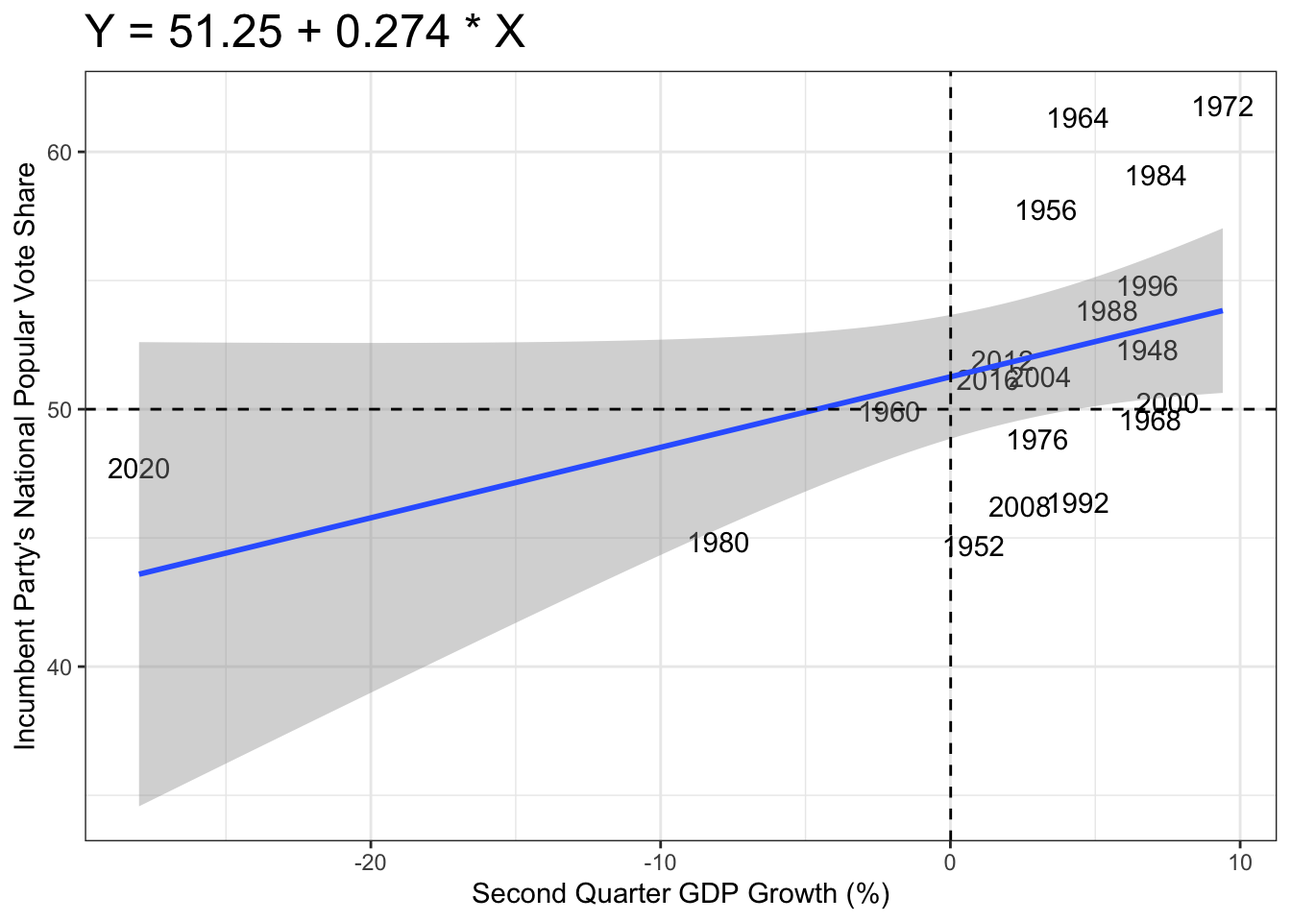
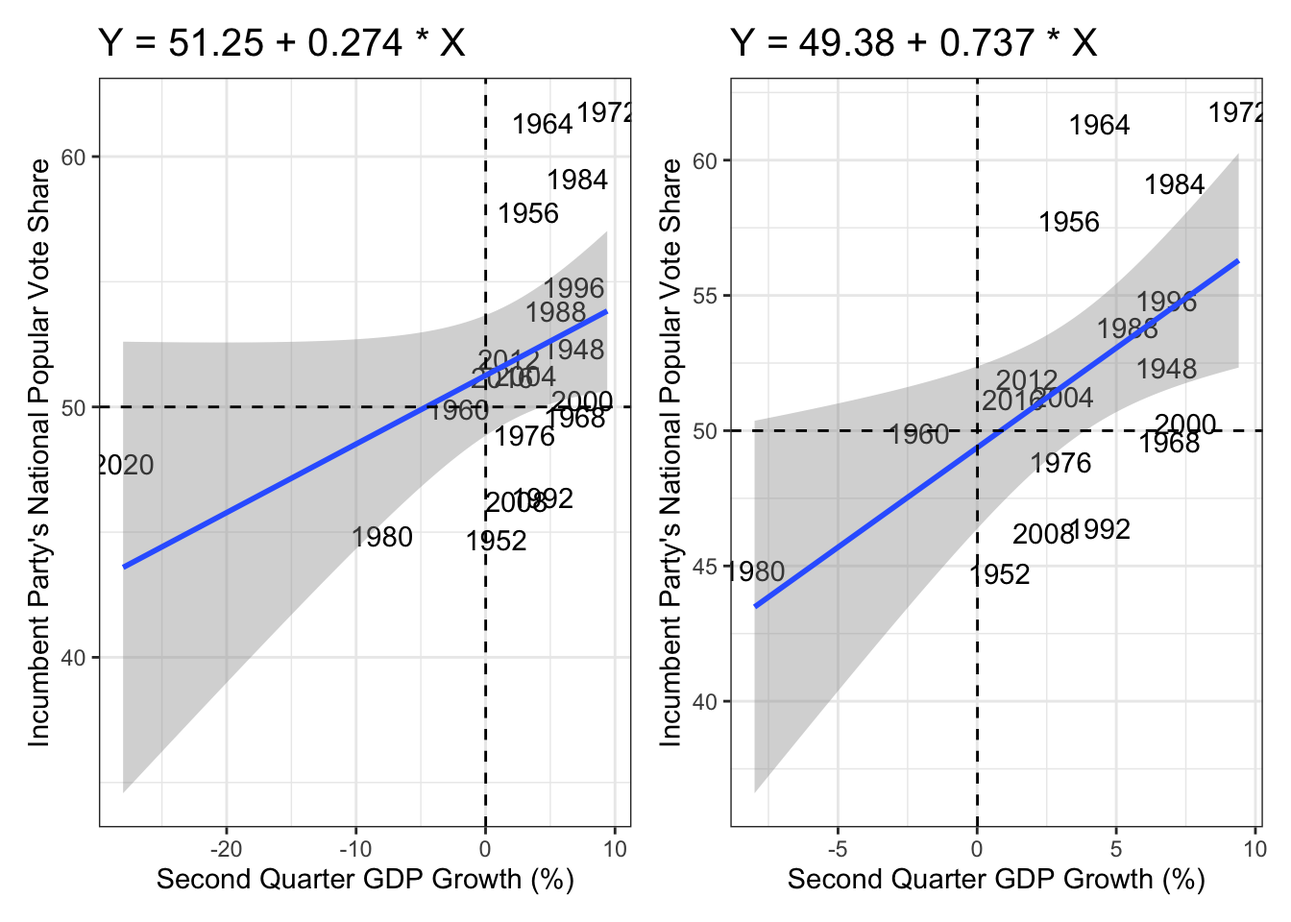
try 2?

diff --git a/public/post/2024/09/15/blog-post-2-factoring-in-economic-forces/index.html b/public/post/2024/09/15/blog-post-2-factoring-in-economic-forces/index.html
@@ -28,10 +28,299 @@
 </div>
 
 <main>
+<h2 id="introduction">Introduction</h2>
+<p>During election season, while the media focuses heavy attention on political rallies, fundraising numbers, and the chaotic political headlines that pass with each news cycle, many political scholars and strategists believe that certain &ldquo;fundamental&rdquo; factors, such as the strength or weakness of the economy, drive political trends much more than the billions of dollars presidential campaigns spend or the relative strengths and weaknesses of the candidates themselves. In this second blog post, I will seek to understand how predictive various economic measures, namely GDP growth and RDI growth, are of presidential election results, specifically the national popular vote share for the incumbent party.</p>
+<h2 id="historical-trends">Historical Trends</h2>
+<p>###Gross Domestic Product (GDP)</p>
+<p>I will begin by looking at GDP growth data in relation to incumbent party vote share. Specifically, I will look at GDP growth in Quarter 2 (between April and June) of each election year, since this period is a fairly good representation of the short term economic outlook leading up to the election. The graphs below show the relationship between Q2 GDP growth and incumbent party vote share. The difference between the two below graphs is that the first includes the 2020 data point while the second graph does not. This difference is important given how much of an outlier 2020 was. Q2 in 2020 was at the height of the Covid-19 lockdown, and the country&rsquo;s economy was in a state of utter chaos. Thus, testing this relationship both with and without 2020 is important.</p>
 <pre><code>## Joining with `by = join_by(year)`
 ## Joining with `by = join_by(year)`
 </code></pre>
-<p><img src="https://johnkulow.github.io/elections-blog/post/2024/09/15/blog-post-2-factoring-in-economic-forces/index_files/figure-html/unnamed-chunk-4-1.png" width="672" /><img src="https://johnkulow.github.io/elections-blog/post/2024/09/15/blog-post-2-factoring-in-economic-forces/index_files/figure-html/unnamed-chunk-4-2.png" width="672" /></p>
+<img src="https://johnkulow.github.io/elections-blog/post/2024/09/15/blog-post-2-factoring-in-economic-forces/index_files/figure-html/unnamed-chunk-4-1.png" width="672" />
+<table style="border-collapse:collapse; border:none;">
+<caption style="font-weight: bold; text-align:left;">Q2 GDP Growth Regression Table (1948-2020)</caption>
+<tr>
+<th style="border-top: double; text-align:center; font-style:normal; font-weight:bold; padding:0.2cm;  text-align:left; ">&nbsp;</th>
+<th colspan="4" style="border-top: double; text-align:center; font-style:normal; font-weight:bold; padding:0.2cm; ">Incumbent Party Vote Share</th>
+</tr>
+<tr>
+<td style=" text-align:center; border-bottom:1px solid; font-style:italic; font-weight:normal;  text-align:left; ">Predictors</td>
+<td style=" text-align:center; border-bottom:1px solid; font-style:italic; font-weight:normal;  ">Estimates</td>
+<td style=" text-align:center; border-bottom:1px solid; font-style:italic; font-weight:normal;  ">std. Error</td>
+<td style=" text-align:center; border-bottom:1px solid; font-style:italic; font-weight:normal;  ">CI</td>
+<td style=" text-align:center; border-bottom:1px solid; font-style:italic; font-weight:normal;  ">p</td>
+</tr>
+<tr>
+<td style=" padding:0.2cm; text-align:left; vertical-align:top; text-align:left; ">(Intercept)</td>
+<td style=" padding:0.2cm; text-align:left; vertical-align:top; text-align:center;  ">51.26</td>
+<td style=" padding:0.2cm; text-align:left; vertical-align:top; text-align:center;  ">1.14</td>
+<td style=" padding:0.2cm; text-align:left; vertical-align:top; text-align:center;  ">48.85&nbsp;&ndash;&nbsp;53.66</td>
+<td style=" padding:0.2cm; text-align:left; vertical-align:top; text-align:center;  "><strong>&lt;0.001</strong></td>
+</tr>
+<tr>
+<td style=" padding:0.2cm; text-align:left; vertical-align:top; text-align:left; ">GDP growth quarterly</td>
+<td style=" padding:0.2cm; text-align:left; vertical-align:top; text-align:center;  ">0.27</td>
+<td style=" padding:0.2cm; text-align:left; vertical-align:top; text-align:center;  ">0.14</td>
+<td style=" padding:0.2cm; text-align:left; vertical-align:top; text-align:center;  ">&#45;0.02&nbsp;&ndash;&nbsp;0.57</td>
+<td style=" padding:0.2cm; text-align:left; vertical-align:top; text-align:center;  ">0.064</td>
+</tr>
+<tr>
+<td style=" padding:0.2cm; text-align:left; vertical-align:top; text-align:left; padding-top:0.1cm; padding-bottom:0.1cm; border-top:1px solid;">Observations</td>
+<td style=" padding:0.2cm; text-align:left; vertical-align:top; padding-top:0.1cm; padding-bottom:0.1cm; text-align:left; border-top:1px solid;" colspan="4">19</td>
+</tr>
+<tr>
+<td style=" padding:0.2cm; text-align:left; vertical-align:top; text-align:left; padding-top:0.1cm; padding-bottom:0.1cm;">R<sup>2</sup> / R<sup>2</sup> adjusted</td>
+<td style=" padding:0.2cm; text-align:left; vertical-align:top; padding-top:0.1cm; padding-bottom:0.1cm; text-align:left;" colspan="4">0.188 / 0.140</td>
+</tr>
+</table>
+<table style="border-collapse:collapse; border:none;">
+<caption style="font-weight: bold; text-align:left;">Q2 GDP Growth Regression Table (1948-2016)</caption>
+<tr>
+<th style="border-top: double; text-align:center; font-style:normal; font-weight:bold; padding:0.2cm;  text-align:left; ">&nbsp;</th>
+<th colspan="4" style="border-top: double; text-align:center; font-style:normal; font-weight:bold; padding:0.2cm; ">Incumbent Party Vote Share</th>
+</tr>
+<tr>
+<td style=" text-align:center; border-bottom:1px solid; font-style:italic; font-weight:normal;  text-align:left; ">Predictors</td>
+<td style=" text-align:center; border-bottom:1px solid; font-style:italic; font-weight:normal;  ">Estimates</td>
+<td style=" text-align:center; border-bottom:1px solid; font-style:italic; font-weight:normal;  ">std. Error</td>
+<td style=" text-align:center; border-bottom:1px solid; font-style:italic; font-weight:normal;  ">CI</td>
+<td style=" text-align:center; border-bottom:1px solid; font-style:italic; font-weight:normal;  ">p</td>
+</tr>
+<tr>
+<td style=" padding:0.2cm; text-align:left; vertical-align:top; text-align:left; ">(Intercept)</td>
+<td style=" padding:0.2cm; text-align:left; vertical-align:top; text-align:center;  ">49.38</td>
+<td style=" padding:0.2cm; text-align:left; vertical-align:top; text-align:center;  ">1.42</td>
+<td style=" padding:0.2cm; text-align:left; vertical-align:top; text-align:center;  ">46.37&nbsp;&ndash;&nbsp;52.38</td>
+<td style=" padding:0.2cm; text-align:left; vertical-align:top; text-align:center;  "><strong>&lt;0.001</strong></td>
+</tr>
+<tr>
+<td style=" padding:0.2cm; text-align:left; vertical-align:top; text-align:left; ">GDP growth quarterly</td>
+<td style=" padding:0.2cm; text-align:left; vertical-align:top; text-align:center;  ">0.74</td>
+<td style=" padding:0.2cm; text-align:left; vertical-align:top; text-align:center;  ">0.27</td>
+<td style=" padding:0.2cm; text-align:left; vertical-align:top; text-align:center;  ">0.17&nbsp;&ndash;&nbsp;1.30</td>
+<td style=" padding:0.2cm; text-align:left; vertical-align:top; text-align:center;  "><strong>0.014</strong></td>
+</tr>
+<tr>
+<td style=" padding:0.2cm; text-align:left; vertical-align:top; text-align:left; padding-top:0.1cm; padding-bottom:0.1cm; border-top:1px solid;">Observations</td>
+<td style=" padding:0.2cm; text-align:left; vertical-align:top; padding-top:0.1cm; padding-bottom:0.1cm; text-align:left; border-top:1px solid;" colspan="4">18</td>
+</tr>
+<tr>
+<td style=" padding:0.2cm; text-align:left; vertical-align:top; text-align:left; padding-top:0.1cm; padding-bottom:0.1cm;">R<sup>2</sup> / R<sup>2</sup> adjusted</td>
+<td style=" padding:0.2cm; text-align:left; vertical-align:top; padding-top:0.1cm; padding-bottom:0.1cm; text-align:left;" colspan="4">0.325 / 0.283</td>
+</tr>
+</table>
+<p>These graphs and their accompanying regression tables show that there is a positive correlation between Q2 election year GDP growth ad incumbent party vote share in the corresponding November election. This relationship is much stronger when we exclude the 2020 outlier case, resulting in the slope of the line of best fit increasing from 0.27 to 0.74. This said, the R squared value of 0.28 for the 1948-2016 model remains fairly low, meaning that now much of the variation from the trendline can be explained by the model.</p>
+<h3 id="real-disposable-income-rdi">Real Disposable Income (RDI)</h3>
+<p>Given that Q2 GDP growth clearly has a correlation, but, predictably, does not fully explain election results, it is useful to see how a different measure of the strength of the economy, changes in Real Disposable Income (RDI), relates to the election results. Some argue that RDI, at least in theory, is a better predictor of electoral trends because it is a measure of how much money voters actually have in their pockets, compared to GDP which is a measure of the collective strength of the economy, regardless of how individuals within the economy are fairing. Like the graphs for GDP growth, the two graphs below first include and then exclude the 2020 outlier case, and I look at changes in RDI in Q2 of each election year.</p>
+<img src="https://johnkulow.github.io/elections-blog/post/2024/09/15/blog-post-2-factoring-in-economic-forces/index_files/figure-html/unnamed-chunk-7-1.png" width="672" />
+<table style="border-collapse:collapse; border:none;">
+<caption style="font-weight: bold; text-align:left;">Q2 RDI Growth Regression Table (1948-2020)</caption>
+<tr>
+<th style="border-top: double; text-align:center; font-style:normal; font-weight:bold; padding:0.2cm;  text-align:left; ">&nbsp;</th>
+<th colspan="4" style="border-top: double; text-align:center; font-style:normal; font-weight:bold; padding:0.2cm; ">Incumbent Party Vote Share</th>
+</tr>
+<tr>
+<td style=" text-align:center; border-bottom:1px solid; font-style:italic; font-weight:normal;  text-align:left; ">Predictors</td>
+<td style=" text-align:center; border-bottom:1px solid; font-style:italic; font-weight:normal;  ">Estimates</td>
+<td style=" text-align:center; border-bottom:1px solid; font-style:italic; font-weight:normal;  ">std. Error</td>
+<td style=" text-align:center; border-bottom:1px solid; font-style:italic; font-weight:normal;  ">CI</td>
+<td style=" text-align:center; border-bottom:1px solid; font-style:italic; font-weight:normal;  ">p</td>
+</tr>
+<tr>
+<td style=" padding:0.2cm; text-align:left; vertical-align:top; text-align:left; ">(Intercept)</td>
+<td style=" padding:0.2cm; text-align:left; vertical-align:top; text-align:center;  ">51.97</td>
+<td style=" padding:0.2cm; text-align:left; vertical-align:top; text-align:center;  ">1.49</td>
+<td style=" padding:0.2cm; text-align:left; vertical-align:top; text-align:center;  ">48.82&nbsp;&ndash;&nbsp;55.12</td>
+<td style=" padding:0.2cm; text-align:left; vertical-align:top; text-align:center;  "><strong>&lt;0.001</strong></td>
+</tr>
+<tr>
+<td style=" padding:0.2cm; text-align:left; vertical-align:top; text-align:left; ">RDPI growth quarterly</td>
+<td style=" padding:0.2cm; text-align:left; vertical-align:top; text-align:center;  ">&#45;0.03</td>
+<td style=" padding:0.2cm; text-align:left; vertical-align:top; text-align:center;  ">0.12</td>
+<td style=" padding:0.2cm; text-align:left; vertical-align:top; text-align:center;  ">&#45;0.29&nbsp;&ndash;&nbsp;0.23</td>
+<td style=" padding:0.2cm; text-align:left; vertical-align:top; text-align:center;  ">0.823</td>
+</tr>
+<tr>
+<td style=" padding:0.2cm; text-align:left; vertical-align:top; text-align:left; padding-top:0.1cm; padding-bottom:0.1cm; border-top:1px solid;">Observations</td>
+<td style=" padding:0.2cm; text-align:left; vertical-align:top; padding-top:0.1cm; padding-bottom:0.1cm; text-align:left; border-top:1px solid;" colspan="4">19</td>
+</tr>
+<tr>
+<td style=" padding:0.2cm; text-align:left; vertical-align:top; text-align:left; padding-top:0.1cm; padding-bottom:0.1cm;">R<sup>2</sup> / R<sup>2</sup> adjusted</td>
+<td style=" padding:0.2cm; text-align:left; vertical-align:top; padding-top:0.1cm; padding-bottom:0.1cm; text-align:left;" colspan="4">0.003 / -0.056</td>
+</tr>
+</table>
+<table style="border-collapse:collapse; border:none;">
+<caption style="font-weight: bold; text-align:left;">Q2 RDI Growth Regression Table (1948-2016)</caption>
+<tr>
+<th style="border-top: double; text-align:center; font-style:normal; font-weight:bold; padding:0.2cm;  text-align:left; ">&nbsp;</th>
+<th colspan="4" style="border-top: double; text-align:center; font-style:normal; font-weight:bold; padding:0.2cm; ">Incumbent Party Vote Share</th>
+</tr>
+<tr>
+<td style=" text-align:center; border-bottom:1px solid; font-style:italic; font-weight:normal;  text-align:left; ">Predictors</td>
+<td style=" text-align:center; border-bottom:1px solid; font-style:italic; font-weight:normal;  ">Estimates</td>
+<td style=" text-align:center; border-bottom:1px solid; font-style:italic; font-weight:normal;  ">std. Error</td>
+<td style=" text-align:center; border-bottom:1px solid; font-style:italic; font-weight:normal;  ">CI</td>
+<td style=" text-align:center; border-bottom:1px solid; font-style:italic; font-weight:normal;  ">p</td>
+</tr>
+<tr>
+<td style=" padding:0.2cm; text-align:left; vertical-align:top; text-align:left; ">(Intercept)</td>
+<td style=" padding:0.2cm; text-align:left; vertical-align:top; text-align:center;  ">49.87</td>
+<td style=" padding:0.2cm; text-align:left; vertical-align:top; text-align:center;  ">1.93</td>
+<td style=" padding:0.2cm; text-align:left; vertical-align:top; text-align:center;  ">45.77&nbsp;&ndash;&nbsp;53.96</td>
+<td style=" padding:0.2cm; text-align:left; vertical-align:top; text-align:center;  "><strong>&lt;0.001</strong></td>
+</tr>
+<tr>
+<td style=" padding:0.2cm; text-align:left; vertical-align:top; text-align:left; ">RDPI growth quarterly</td>
+<td style=" padding:0.2cm; text-align:left; vertical-align:top; text-align:center;  ">0.46</td>
+<td style=" padding:0.2cm; text-align:left; vertical-align:top; text-align:center;  ">0.32</td>
+<td style=" padding:0.2cm; text-align:left; vertical-align:top; text-align:center;  ">&#45;0.23&nbsp;&ndash;&nbsp;1.15</td>
+<td style=" padding:0.2cm; text-align:left; vertical-align:top; text-align:center;  ">0.176</td>
+</tr>
+<tr>
+<td style=" padding:0.2cm; text-align:left; vertical-align:top; text-align:left; padding-top:0.1cm; padding-bottom:0.1cm; border-top:1px solid;">Observations</td>
+<td style=" padding:0.2cm; text-align:left; vertical-align:top; padding-top:0.1cm; padding-bottom:0.1cm; text-align:left; border-top:1px solid;" colspan="4">18</td>
+</tr>
+<tr>
+<td style=" padding:0.2cm; text-align:left; vertical-align:top; text-align:left; padding-top:0.1cm; padding-bottom:0.1cm;">R<sup>2</sup> / R<sup>2</sup> adjusted</td>
+<td style=" padding:0.2cm; text-align:left; vertical-align:top; padding-top:0.1cm; padding-bottom:0.1cm; text-align:left;" colspan="4">0.111 / 0.056</td>
+</tr>
+</table>
+<p>As can be seen in both the graphs and the coressponding regression tables, the 2020 outlier significantly changes how predictive changes in RDI are, with the slope of the line of best fit jumping from -0.03 to +0.46. This said, this second, better fitting positive correlation is a notably worse relationship than Q2 GDP growth, both in terms of the slope of the trendline being less steep and in terms of the R squared value, which in this case is a very small 0.056. Thus, Q2 GDP growth is a better predictor of electoral results than Q2 RDI growth.</p>
+<h2 id="incumbents-vs-incumbents-heirs">Incumbents vs Incumbents&rsquo; Heirs</h2>
+<h3 id="gdp-growth">GDP growth</h3>
+<p>I will now look at whether these relationships hold up when the incumbent party&rsquo;s nominee is not the incumbent themselves. This distinction potentially matters because if the economy is doing particularly well or particularly poorly, voters may not respectively give credit or blame the incumbent party&rsquo;s candidate given that they were not in power to cause these changes. This distinction is of particular importance when looking at the 2024 election given that President Biden has stepped aside to allow his heir, Vice President Harris, to run instead.</p>
+<pre><code>## Joining with `by = join_by(year)`
+## Joining with `by = join_by(year)`
+## Joining with `by = join_by(year)`
+## Joining with `by = join_by(year)`
+</code></pre>
+<img src="https://johnkulow.github.io/elections-blog/post/2024/09/15/blog-post-2-factoring-in-economic-forces/index_files/figure-html/unnamed-chunk-11-1.png" width="672" />
+<table style="border-collapse:collapse; border:none;">
+<caption style="font-weight: bold; text-align:left;">Comparison Regression Table for Q2 GDP Growth (1948-2020)</caption>
+<tr>
+<th style="border-top: double; text-align:center; font-style:normal; font-weight:bold; padding:0.2cm;  text-align:left; ">&nbsp;</th>
+<th colspan="4" style="border-top: double; text-align:center; font-style:normal; font-weight:bold; padding:0.2cm; ">Sitting Presidents</th>
+<th colspan="4" style="border-top: double; text-align:center; font-style:normal; font-weight:bold; padding:0.2cm; ">Same-Party Heirs</th>
+</tr>
+<tr>
+<td style=" text-align:center; border-bottom:1px solid; font-style:italic; font-weight:normal;  text-align:left; ">Predictors</td>
+<td style=" text-align:center; border-bottom:1px solid; font-style:italic; font-weight:normal;  ">Estimates</td>
+<td style=" text-align:center; border-bottom:1px solid; font-style:italic; font-weight:normal;  ">std. Error</td>
+<td style=" text-align:center; border-bottom:1px solid; font-style:italic; font-weight:normal;  ">CI</td>
+<td style=" text-align:center; border-bottom:1px solid; font-style:italic; font-weight:normal;  ">p</td>
+<td style=" text-align:center; border-bottom:1px solid; font-style:italic; font-weight:normal;  ">Estimates</td>
+<td style=" text-align:center; border-bottom:1px solid; font-style:italic; font-weight:normal;  col7">std. Error</td>
+<td style=" text-align:center; border-bottom:1px solid; font-style:italic; font-weight:normal;  col8">CI</td>
+<td style=" text-align:center; border-bottom:1px solid; font-style:italic; font-weight:normal;  col9">p</td>
+</tr>
+<tr>
+<td style=" padding:0.2cm; text-align:left; vertical-align:top; text-align:left; ">(Intercept)</td>
+<td style=" padding:0.2cm; text-align:left; vertical-align:top; text-align:center;  ">50.43</td>
+<td style=" padding:0.2cm; text-align:left; vertical-align:top; text-align:center;  ">1.85</td>
+<td style=" padding:0.2cm; text-align:left; vertical-align:top; text-align:center;  ">46.25&nbsp;&ndash;&nbsp;54.61</td>
+<td style=" padding:0.2cm; text-align:left; vertical-align:top; text-align:center;  "><strong>&lt;0.001</strong></td>
+<td style=" padding:0.2cm; text-align:left; vertical-align:top; text-align:center;  ">48.46</td>
+<td style=" padding:0.2cm; text-align:left; vertical-align:top; text-align:center;  col7">1.65</td>
+<td style=" padding:0.2cm; text-align:left; vertical-align:top; text-align:center;  col8">44.21&nbsp;&ndash;&nbsp;52.72</td>
+<td style=" padding:0.2cm; text-align:left; vertical-align:top; text-align:center;  col9"><strong>&lt;0.001</strong></td>
+</tr>
+<tr>
+<td style=" padding:0.2cm; text-align:left; vertical-align:top; text-align:left; ">GDP growth quarterly</td>
+<td style=" padding:0.2cm; text-align:left; vertical-align:top; text-align:center;  ">0.85</td>
+<td style=" padding:0.2cm; text-align:left; vertical-align:top; text-align:center;  ">0.32</td>
+<td style=" padding:0.2cm; text-align:left; vertical-align:top; text-align:center;  ">0.12&nbsp;&ndash;&nbsp;1.57</td>
+<td style=" padding:0.2cm; text-align:left; vertical-align:top; text-align:center;  "><strong>0.027</strong></td>
+<td style=" padding:0.2cm; text-align:left; vertical-align:top; text-align:center;  ">0.29</td>
+<td style=" padding:0.2cm; text-align:left; vertical-align:top; text-align:center;  col7">0.36</td>
+<td style=" padding:0.2cm; text-align:left; vertical-align:top; text-align:center;  col8">&#45;0.64&nbsp;&ndash;&nbsp;1.22</td>
+<td style=" padding:0.2cm; text-align:left; vertical-align:top; text-align:center;  col9">0.458</td>
+</tr>
+<tr>
+<td style=" padding:0.2cm; text-align:left; vertical-align:top; text-align:left; padding-top:0.1cm; padding-bottom:0.1cm; border-top:1px solid;">Observations</td>
+<td style=" padding:0.2cm; text-align:left; vertical-align:top; padding-top:0.1cm; padding-bottom:0.1cm; text-align:left; border-top:1px solid;" colspan="4">11</td>
+<td style=" padding:0.2cm; text-align:left; vertical-align:top; padding-top:0.1cm; padding-bottom:0.1cm; text-align:left; border-top:1px solid;" colspan="4">7</td>
+</tr>
+<tr>
+<td style=" padding:0.2cm; text-align:left; vertical-align:top; text-align:left; padding-top:0.1cm; padding-bottom:0.1cm;">R<sup>2</sup> / R<sup>2</sup> adjusted</td>
+<td style=" padding:0.2cm; text-align:left; vertical-align:top; padding-top:0.1cm; padding-bottom:0.1cm; text-align:left;" colspan="4">0.437 / 0.375</td>
+<td style=" padding:0.2cm; text-align:left; vertical-align:top; padding-top:0.1cm; padding-bottom:0.1cm; text-align:left;" colspan="4">0.114 / -0.063</td>
+</tr>
+</table>
+<p>These graphs show that there is a much weaker correlation between Q2 GDP growth and incumbent party vote share when the incumbent party&rsquo;s nominee is a successor rather than the incumbent themselves. The slope of the line of best fit drops from 0.85 to 0.29, and the R squared value drops from 0.375 to -0.063. This shows that Q2 GDP growth has very little predictive power when the incumbent themselves is not running for reelection.</p>
+<h3 id="rdi-growth">RDI Growth</h3>
+<p>If we repeat this test for Q2 RDI growth, a similar story plays out</p>
+<img src="https://johnkulow.github.io/elections-blog/post/2024/09/15/blog-post-2-factoring-in-economic-forces/index_files/figure-html/unnamed-chunk-14-1.png" width="672" />
+<table style="border-collapse:collapse; border:none;">
+<caption style="font-weight: bold; text-align:left;">Comparison Regression Table for Q2 RDI Growth (1948-2020)</caption>
+<tr>
+<th style="border-top: double; text-align:center; font-style:normal; font-weight:bold; padding:0.2cm;  text-align:left; ">&nbsp;</th>
+<th colspan="4" style="border-top: double; text-align:center; font-style:normal; font-weight:bold; padding:0.2cm; ">Sitting Presidents</th>
+<th colspan="4" style="border-top: double; text-align:center; font-style:normal; font-weight:bold; padding:0.2cm; ">Same-Party Heirs</th>
+</tr>
+<tr>
+<td style=" text-align:center; border-bottom:1px solid; font-style:italic; font-weight:normal;  text-align:left; ">Predictors</td>
+<td style=" text-align:center; border-bottom:1px solid; font-style:italic; font-weight:normal;  ">Estimates</td>
+<td style=" text-align:center; border-bottom:1px solid; font-style:italic; font-weight:normal;  ">std. Error</td>
+<td style=" text-align:center; border-bottom:1px solid; font-style:italic; font-weight:normal;  ">CI</td>
+<td style=" text-align:center; border-bottom:1px solid; font-style:italic; font-weight:normal;  ">p</td>
+<td style=" text-align:center; border-bottom:1px solid; font-style:italic; font-weight:normal;  ">Estimates</td>
+<td style=" text-align:center; border-bottom:1px solid; font-style:italic; font-weight:normal;  col7">std. Error</td>
+<td style=" text-align:center; border-bottom:1px solid; font-style:italic; font-weight:normal;  col8">CI</td>
+<td style=" text-align:center; border-bottom:1px solid; font-style:italic; font-weight:normal;  col9">p</td>
+</tr>
+<tr>
+<td style=" padding:0.2cm; text-align:left; vertical-align:top; text-align:left; ">(Intercept)</td>
+<td style=" padding:0.2cm; text-align:left; vertical-align:top; text-align:center;  ">50.39</td>
+<td style=" padding:0.2cm; text-align:left; vertical-align:top; text-align:center;  ">2.36</td>
+<td style=" padding:0.2cm; text-align:left; vertical-align:top; text-align:center;  ">45.06&nbsp;&ndash;&nbsp;55.73</td>
+<td style=" padding:0.2cm; text-align:left; vertical-align:top; text-align:center;  "><strong>&lt;0.001</strong></td>
+<td style=" padding:0.2cm; text-align:left; vertical-align:top; text-align:center;  ">51.49</td>
+<td style=" padding:0.2cm; text-align:left; vertical-align:top; text-align:center;  col7">2.17</td>
+<td style=" padding:0.2cm; text-align:left; vertical-align:top; text-align:center;  col8">45.92&nbsp;&ndash;&nbsp;57.06</td>
+<td style=" padding:0.2cm; text-align:left; vertical-align:top; text-align:center;  col9"><strong>&lt;0.001</strong></td>
+</tr>
+<tr>
+<td style=" padding:0.2cm; text-align:left; vertical-align:top; text-align:left; ">RDPI growth quarterly</td>
+<td style=" padding:0.2cm; text-align:left; vertical-align:top; text-align:center;  ">0.69</td>
+<td style=" padding:0.2cm; text-align:left; vertical-align:top; text-align:center;  ">0.37</td>
+<td style=" padding:0.2cm; text-align:left; vertical-align:top; text-align:center;  ">&#45;0.15&nbsp;&ndash;&nbsp;1.54</td>
+<td style=" padding:0.2cm; text-align:left; vertical-align:top; text-align:center;  ">0.095</td>
+<td style=" padding:0.2cm; text-align:left; vertical-align:top; text-align:center;  ">&#45;0.46</td>
+<td style=" padding:0.2cm; text-align:left; vertical-align:top; text-align:center;  col7">0.41</td>
+<td style=" padding:0.2cm; text-align:left; vertical-align:top; text-align:center;  col8">&#45;1.51&nbsp;&ndash;&nbsp;0.59</td>
+<td style=" padding:0.2cm; text-align:left; vertical-align:top; text-align:center;  col9">0.307</td>
+</tr>
+<tr>
+<td style=" padding:0.2cm; text-align:left; vertical-align:top; text-align:left; padding-top:0.1cm; padding-bottom:0.1cm; border-top:1px solid;">Observations</td>
+<td style=" padding:0.2cm; text-align:left; vertical-align:top; padding-top:0.1cm; padding-bottom:0.1cm; text-align:left; border-top:1px solid;" colspan="4">11</td>
+<td style=" padding:0.2cm; text-align:left; vertical-align:top; padding-top:0.1cm; padding-bottom:0.1cm; text-align:left; border-top:1px solid;" colspan="4">7</td>
+</tr>
+<tr>
+<td style=" padding:0.2cm; text-align:left; vertical-align:top; text-align:left; padding-top:0.1cm; padding-bottom:0.1cm;">R<sup>2</sup> / R<sup>2</sup> adjusted</td>
+<td style=" padding:0.2cm; text-align:left; vertical-align:top; padding-top:0.1cm; padding-bottom:0.1cm; text-align:left;" colspan="4">0.279 / 0.198</td>
+<td style=" padding:0.2cm; text-align:left; vertical-align:top; padding-top:0.1cm; padding-bottom:0.1cm; text-align:left;" colspan="4">0.206 / 0.047</td>
+</tr>
+</table>
+<p>As can be seen in the above graphs and regression chart, when the incumbent is not running for reelection the slope of the line of best fit decreases from 0.69 to -0.46, while the R squared value decreases from 0.198 to 0.047. This shows that when the incumbent party has a non-incumbent nominee, there is not even necessarily a positive correlation between Q2 RDI growth and incumbent party vote share, and the R squared value tells us that whatever relationship there is does not explain very much.</p>
+<h2 id="2024-prediction">2024 Prediction</h2>
+<p>While these models and relationships are certainly imperfect, that does not mean they do not carry any predictive power, as the relative strength or weakness of the economy has an undeniably large impact on the election, even if it does not completely explain to results. As such, I have made the following predictive models for how much of the national popular vote Vice President Harris will win:</p>
+<p>Based off of Q2 GDP Growth:</p>
+<pre><code>##        fit      lwr     upr
+## 1 51.58486 41.85982 61.3099
+</code></pre>
+<p>Based off of Q2 GDP Growth for Incumbent Party Heirs:</p>
+<pre><code>##        fit     lwr      upr
+## 1 49.33617 40.6918 57.98053
+</code></pre>
+<p>Based off of Q2 RDI Growth:</p>
+<pre><code>##        fit      lwr      upr
+## 1 50.32576 38.89587 61.75566
+</code></pre>
+<p>Based off of Q2 RDI Growth for Incumbent Party Heirs:</p>
+<pre><code>##        fit      lwr      upr
+## 1 51.02614 42.04159 60.01069
+</code></pre>
+<p>As can be seen, these four models predict a tight election, but one where Harris should earn slightly above 50% of the national popular vote. This is a promising sign for Harris going into the last 50 days of the election,</p>
 
 </main>
 

diff --git a/public/index.html b/public/index.html
@@ -35,8 +35,8 @@
   
   
   <li>
-    <span class="date">2024/09/16</span>
-    <a href="/elections-blog/post/2024/09/16/blog-post-2-factoring-in-economic-forces/">Blog Post 2: Factoring in Economic Forces</a>
+    <span class="date">2024/09/15</span>
+    <a href="/elections-blog/post/2024/09/15/blog-post-2-factoring-in-economic-forces/">Blog Post 2: Factoring in Economic Forces</a>
   </li>
   
   <li>

diff --git a/public/post/index.html b/public/post/index.html
@@ -33,8 +33,8 @@
   
   
   <li>
-    <span class="date">2024/09/16</span>
-    <a href="/elections-blog/post/2024/09/16/blog-post-2-factoring-in-economic-forces/">Blog Post 2: Factoring in Economic Forces</a>
+    <span class="date">2024/09/15</span>
+    <a href="/elections-blog/post/2024/09/15/blog-post-2-factoring-in-economic-forces/">Blog Post 2: Factoring in Economic Forces</a>
   </li>
   
   <li>

diff --git a/content/post/2024-09-15-blog-post-2-factoring-in-economic-forces/index.md b/content/post/2024-09-15-blog-post-2-factoring-in-economic-forces/index.md
@@ -1,7 +1,7 @@
 ---
 title: 'Blog Post 2: Factoring in Economic Forces'
 author: John Kulow
-date: '2024-09-16'
+date: '2024-09-15'
 slug: blog-post-2-factoring-in-economic-forces
 categories: []
 tags: []
